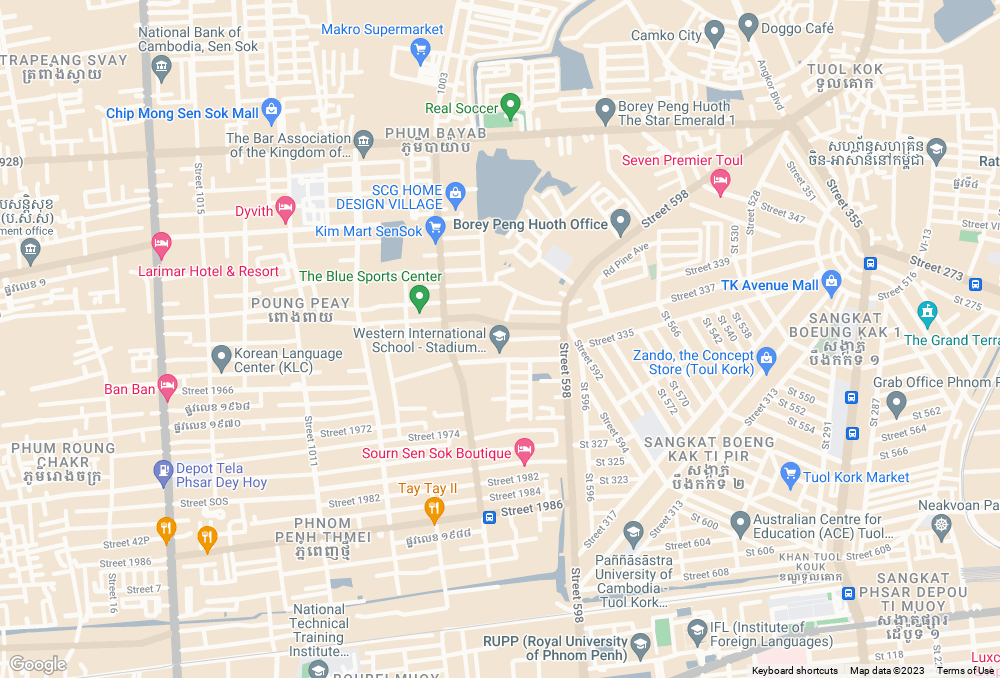
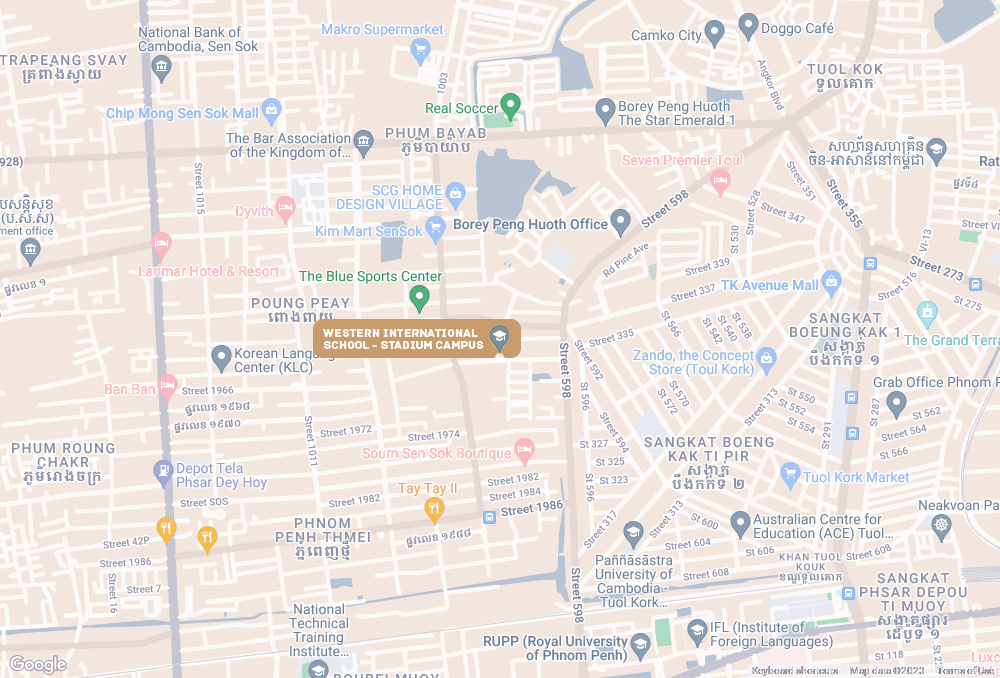
map updated

diff --git a/index.html b/index.html
@@ -71,7 +71,7 @@ footer.a:active {
 <!-- Header with image -->
 <header class="bgimg w3-display-container w3-grayscale-min" id="home">
   <div class="w3-display-bottomright w3-center w3-padding-large w3-hide-small">
-    <span class="w3-tag">From Western International School</span>
+    <span class="w3-tag">Originated from Western International School</span>
   </div>
   <div class="shadow w3-display-middle w3-center">
     <span class="w3-text-white" style="font-size:120px"><font color="#42607F">npc</font><font color="#B23F45">western</font></span>
@@ -87,11 +87,11 @@ footer.a:active {
 <!-- About Container -->
 <div class="w3-container" id="about">
   <div class="w3-content" style="max-width:700px">
-    <h5 class="w3-center w3-padding-64"><span class="w3-tag w3-wide">ABOUT THE CAFE</span></h5>
+    <h5 class="w3-center w3-padding-64"><span class="w3-tag w3-wide">ABOUT THE TEAM</span></h5>
     <p>The WIS Newspaper is a group of students working to provide news and information about school events and important ocassions. Our team was formed after a long and tedious selection process that best fit to the needs of the student body.</p>
     <p>We strive to provide validated informations to our readers, help reach the masses and help our Student Council by publishing and advertising their works. Our team hopes to continue publishing high quality articles with intriguing information to the best of our abilities.</p>
     <div class="w3-panel w3-leftbar w3-light-grey">
-      <p><i>"Journalism is the first rough draft of history, in this case, our school's history."</i></p>
+      <p><i>"Journalism is the first rough draft of history, in this case, our school's legacy."</i></p>
       <p>Head of NPC: Sovantheara Heang</p>
     </div>
 	<br><br>
@@ -137,9 +137,9 @@ footer.a:active {
 <div class="w3-container" id="where" style="padding-bottom:32px;">
   <div class="w3-content" style="max-width:700px">
     <h5 class="w3-center w3-padding-48"><span class="w3-tag w3-wide">WHERE TO FIND US</span></h5>
-    <p>Find us at <i>#20, St. 598C, Toul Kok, Phnom Penh</i></p>
-    <img src="img/index/map.png" class="w3-image shadowAlt" style="width:100%">
-    <p><span class="w3-tag">FYI!</span> Members of the <strong>NPC</strong> are spread throughout different campuses. We are mainly present online so feel free to contact us on our social media.</p>
+    <p>Find us at <i>#20, St. 598C, Toul Kok, Phnom Penh</i><br>(Or click the image below for directions!)</p>
+    <a href="https://goo.gl/maps/3snRQ2QykbfpigwT7" title="Western International School" target="_blank" rel="noopener noreferrer" class="w3-hover-text-green"><img src="img/index/map.png" class="w3-image shadowAlt" style="width:100%"></a>
+    <p><span class="w3-tag">FYI!</span> Members of the <strong>NPC</strong> are spread throughout different campuses. We are mainly present online so feel free to contact us on our <a href="https://www.instagram.com/wis.newspc/" target="_blank" rel="noopener noreferrer" class="w3-hover-text-green">social media.</a></p>
   </div>
 </div>
 
